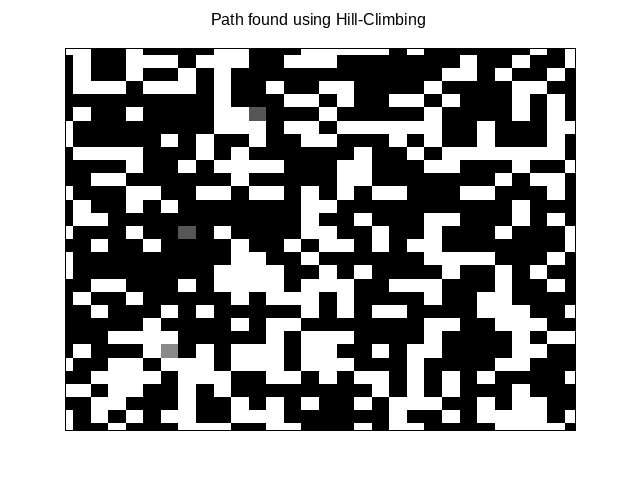
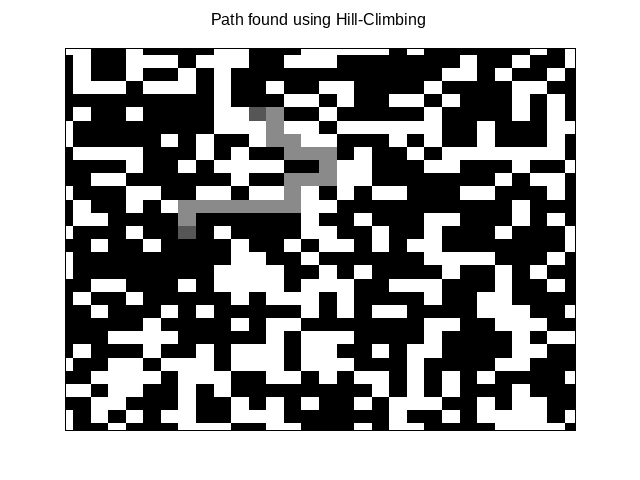
implemented hill climbing

Changed region(s): [[0.2812, 0.2188, 0.5312, 0.4688], [0.25, 0.7188, 0.2812, 0.75]]

diff --git a/src/Graph.cpp b/src/Graph.cpp
@@ -302,9 +302,70 @@ std::vector<Coordinate> Graph::aStar() {
 }
 
 std::vector<Coordinate> Graph::hillClimbing() {
-	long long sum = 0;
-	int qttt = size.col * size.row * (rand() % 20);
-	for (int i = 0; i < qttt; i++) sum += rand() % (i + 10);
-	return std::vector<Coordinate>(3, Coordinate(sum % 10, sum % 10));
+	assert(startingPosition.valid(size));
+
+	std::vector<std::vector<bool>> visited(size.row, std::vector<bool>(size.col));
+	std::vector<std::vector<Coordinate>> parent(size.row, std::vector<Coordinate>(size.col, Coordinate{-1, -1}));
+
+	std::stack<Coordinate> st;
+	st.push(startingPosition);
+	visited[startingPosition.row][startingPosition.col] = true;
+
+	Coordinate endingPosition;
+
+    for (int i = 0; i < size.row; i++) {
+        for (int j = 0; j < size.col; j++) {
+            if (matrix[i][j] == OBJECTIVE) {
+                endingPosition.row = i;
+                endingPosition.col = j;
+            }
+        }
+    }
+
+	while(!st.empty()) {
+		Coordinate cur = st.top();
+		st.pop();
+
+		if (cur == endingPosition) {
+			break;
+		}
+
+		std::vector<Coordinate> orderedNeighbors;
+
+		for (int delta = 0; delta < NDELTA; delta++) {
+			int newRow = cur.row + deltaRow[delta];
+			int newCol = cur.col + deltaCol[delta];
+			Coordinate newCoord(newRow, newCol);
+
+			if (newCoord.valid(size) && matrix[newRow][newCol] != OBSTACLE && !visited[newRow][newCol]) {
+				orderedNeighbors.push_back(newCoord);
+			}
+
+		}
+
+		auto comp = [&](Coordinate& a, Coordinate& b) {
+			int da = abs(a.row - endingPosition.row) + abs(a.col - endingPosition.col);
+			int db = abs(b.row - endingPosition.row) + abs(b.col - endingPosition.col);
+
+			return da < db;
+		};
+
+		std::sort(orderedNeighbors.begin(), orderedNeighbors.end(), comp);
+
+		for (Coordinate& c : orderedNeighbors){
+			visited[c.row][c.col] = true;
+			parent[c.row][c.col] = cur;
+			st.push(c);
+		}
+	}
+
+	std::vector<Coordinate> path;
+	Coordinate pos = endingPosition;
+	while(pos != Coordinate(-1, -1)) {
+			path.push_back(pos);
+			pos = parent[pos.row][pos.col];
+	}
+	reverse(path.begin(), path.end());
+	return path;
 }
 
